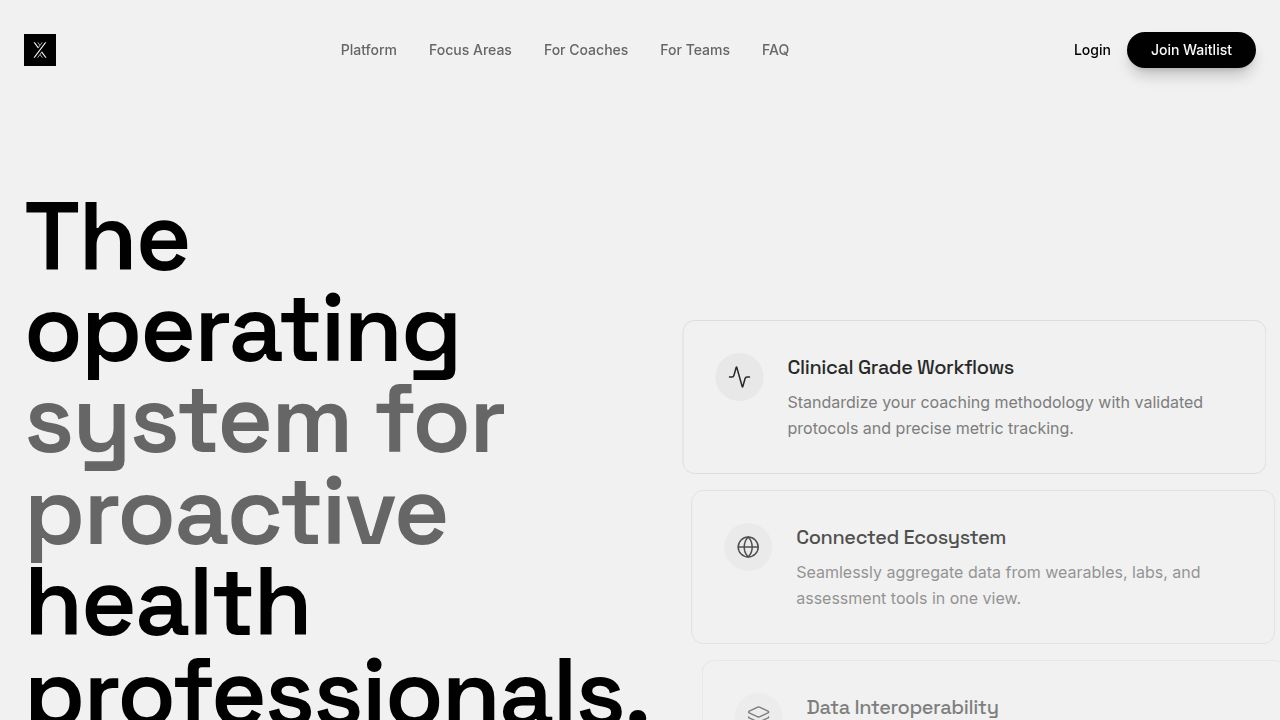
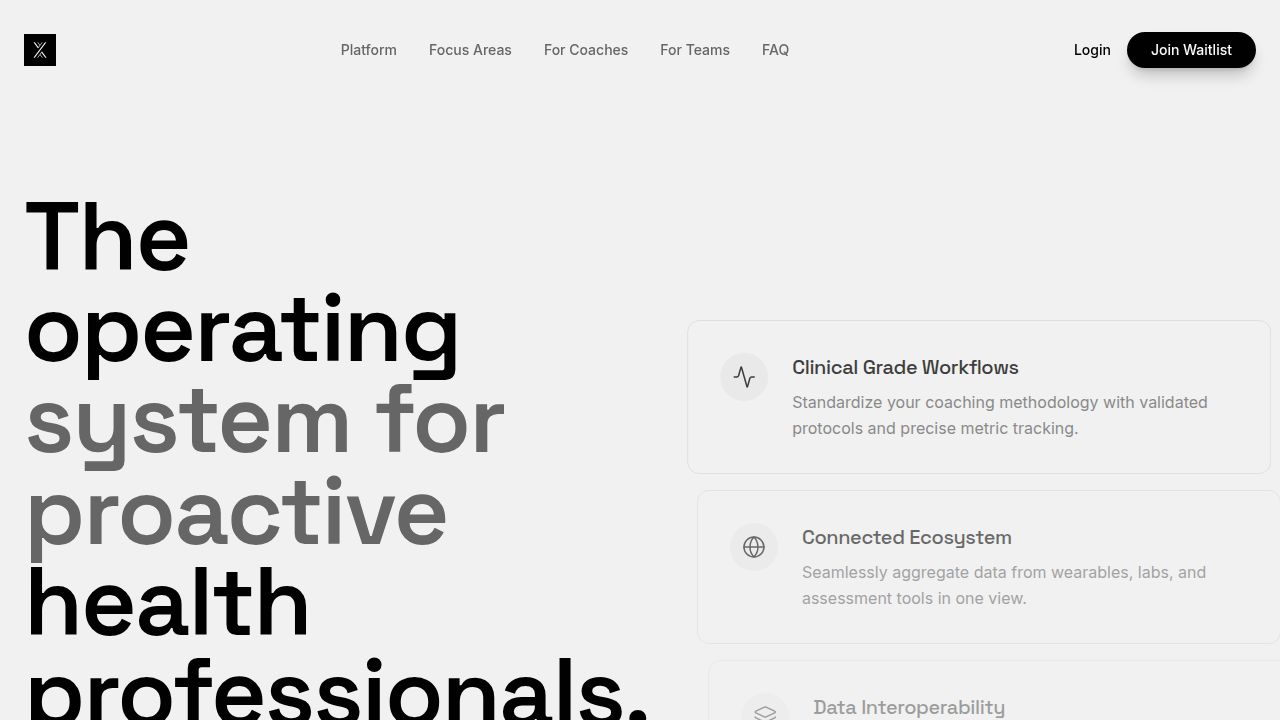
Add a new Careers page to the company website
Introduces a new `Careers.tsx` page component with hero, philosophy, and open roles sections. Updates `App.tsx` to route to `/careers`, `Footer.tsx` to link to the new page, and `content.ts` with careers-specific content.

Replit-Commit-Author: Agent
Replit-Commit-Session-Id: 21ed4a7f-fa60-41e0-8dd4-cb5c47ec6a1c
Replit-Commit-Checkpoint-Type: full_checkpoint
Replit-Commit-Event-Id: cc94141b-a21d-4de6-8590-3291a735c38c
Replit-Commit-Screenshot-Url: https://storage.googleapis.com/screenshot-production-us-central1/97df4e13-ea8d-4634-a346-d44cd41de760/21ed4a7f-fa60-41e0-8dd4-cb5c47ec6a1c/XdJDhq3
Replit-Helium-Checkpoint-Created: true

diff --git a/client/src/pages/Careers.tsx b/client/src/pages/Careers.tsx
@@ -1,0 +1,187 @@
+import Navbar from "@/components/Navbar";
+import Footer from "@/components/Footer";
+import Section from "@/components/Section";
+import { content } from "@/lib/content";
+import { ArrowRight, BarChart3, Zap, Globe, MapPin, Briefcase } from "lucide-react";
+import { motion } from "framer-motion";
+import { useState } from "react";
+import { Input } from "@/components/ui/input";
+import { Button } from "@/components/ui/button";
+import { useToast } from "@/hooks/use-toast";
+
+const philosophyIcons = [BarChart3, Zap, Globe];
+
+export default function Careers() {
+  const { toast } = useToast();
+  const [talentLink, setTalentLink] = useState("");
+  const [submitted, setSubmitted] = useState(false);
+
+  const handleTalentSubmit = (e: React.FormEvent) => {
+    e.preventDefault();
+    if (!talentLink.trim()) return;
+    toast({
+      title: "Thanks for reaching out",
+      description: "We'll review your profile and get in touch.",
+    });
+    setTalentLink("");
+    setSubmitted(true);
+  };
+
+  return (
+    <div className="min-h-screen bg-background text-foreground font-sans selection:bg-primary selection:text-primary-foreground">
+      <Navbar />
+
+      <section className="pt-32 pb-24 lg:pt-48 lg:pb-32 px-6 border-b border-border bg-secondary/5">
+        <div className="container mx-auto max-w-4xl text-center">
+          <motion.h1
+            initial={{ opacity: 0, y: 20 }}
+            animate={{ opacity: 1, y: 0 }}
+            className="text-5xl md:text-7xl font-display font-semibold tracking-tighter mb-6"
+            data-testid="text-careers-headline"
+          >
+            {content.careersPage.hero.title}
+          </motion.h1>
+          <motion.p
+            initial={{ opacity: 0, y: 20 }}
+            animate={{ opacity: 1, y: 0 }}
+            transition={{ delay: 0.1 }}
+            className="text-xl md:text-2xl text-muted-foreground font-light leading-relaxed max-w-2xl mx-auto"
+            data-testid="text-careers-subtitle"
+          >
+            {content.careersPage.hero.subtitle}
+          </motion.p>
+        </div>
+      </section>
+
+      <Section className="bg-background">
+        <div className="max-w-4xl mx-auto">
+          <h2 className="text-3xl md:text-4xl font-display font-medium tracking-tight mb-12 text-center" data-testid="text-philosophy-title">
+            {content.careersPage.philosophy.title}
+          </h2>
+          <div className="grid md:grid-cols-3 gap-6">
+            {content.careersPage.philosophy.cards.map((card, i) => {
+              const Icon = philosophyIcons[i];
+              return (
+                <motion.div
+                  key={i}
+                  initial={{ opacity: 0, y: 20 }}
+                  whileInView={{ opacity: 1, y: 0 }}
+                  viewport={{ once: true }}
+                  transition={{ delay: i * 0.1 }}
+                  className="p-8 rounded-3xl border border-border bg-secondary/5 space-y-4"
+                  data-testid={`card-philosophy-${i}`}
+                >
+                  <div className="w-12 h-12 rounded-2xl bg-secondary flex items-center justify-center">
+                    <Icon className="w-6 h-6 text-foreground" />
+                  </div>
+                  <h3 className="text-xl font-display font-medium">{card.title}</h3>
+                  <p className="text-muted-foreground leading-relaxed">{card.description}</p>
+                </motion.div>
+              );
+            })}
+          </div>
+        </div>
+      </Section>
+
+      <Section className="bg-background">
+        <div className="max-w-4xl mx-auto">
+          <h2 className="text-3xl md:text-4xl font-display font-medium tracking-tight mb-4 text-center" data-testid="text-roles-title">
+            {content.careersPage.roles.title}
+          </h2>
+          <p className="text-center text-muted-foreground mb-12">
+            We're a small, focused team building foundational technology.
+          </p>
+          <div className="space-y-4">
+            {content.careersPage.roles.positions.map((role, i) => (
+              <motion.div
+                key={i}
+                initial={{ opacity: 0, y: 16 }}
+                whileInView={{ opacity: 1, y: 0 }}
+                viewport={{ once: true }}
+                transition={{ delay: i * 0.08 }}
+                className="group p-6 md:p-8 rounded-3xl border border-border bg-background hover:bg-secondary/5 transition-colors cursor-pointer"
+                data-testid={`card-role-${i}`}
+              >
+                <div className="flex flex-col md:flex-row md:items-center justify-between gap-4">
+                  <div className="space-y-2 flex-1">
+                    <h3 className="text-xl font-display font-medium group-hover:text-primary transition-colors">
+                      {role.title}
+                    </h3>
+                    <p className="text-muted-foreground leading-relaxed">
+                      {role.description}
+                    </p>
+                  </div>
+                  <div className="flex items-center gap-4 shrink-0">
+                    <span className="flex items-center gap-1.5 text-sm text-muted-foreground">
+                      <Briefcase className="w-4 h-4" />
+                      {role.type}
+                    </span>
+                    <span className="flex items-center gap-1.5 text-sm text-muted-foreground">
+                      <MapPin className="w-4 h-4" />
+                      {role.location}
+                    </span>
+                    <ArrowRight className="w-5 h-5 text-muted-foreground group-hover:text-foreground group-hover:translate-x-1 transition-all" />
+                  </div>
+                </div>
+              </motion.div>
+            ))}
+          </div>
+        </div>
+      </Section>
+
+      <Section className="bg-foreground text-background">
+        <div className="max-w-2xl mx-auto text-center">
+          <h2 className="text-3xl md:text-4xl font-display font-medium tracking-tight mb-4" data-testid="text-talent-cta">
+            {content.careersPage.talentCta.text}
+          </h2>
+          <p className="text-zinc-400 mb-10">
+            We're always looking for exceptional people who share our mission.
+          </p>
+
+          {submitted ? (
+            <motion.div
+              initial={{ opacity: 0, scale: 0.95 }}
+              animate={{ opacity: 1, scale: 1 }}
+              className="space-y-3"
+            >
+              <div className="w-12 h-12 mx-auto bg-green-500/10 text-green-400 rounded-full flex items-center justify-center">
+                <svg className="w-6 h-6" fill="none" viewBox="0 0 24 24" stroke="currentColor" strokeWidth={2}>
+                  <path strokeLinecap="round" strokeLinejoin="round" d="M5 13l4 4L19 7" />
+                </svg>
+              </div>
+              <p className="text-zinc-300 text-lg">We'll be in touch.</p>
+              <button
+                onClick={() => setSubmitted(false)}
+                className="text-sm text-zinc-500 hover:text-zinc-300 transition-colors"
+                data-testid="button-submit-another"
+              >
+                Submit another
+              </button>
+            </motion.div>
+          ) : (
+            <form onSubmit={handleTalentSubmit} className="flex flex-col sm:flex-row gap-3 max-w-md mx-auto">
+              <Input
+                type="url"
+                placeholder="LinkedIn or portfolio URL"
+                value={talentLink}
+                onChange={(e) => setTalentLink(e.target.value)}
+                required
+                className="flex-1 h-12 rounded-full bg-zinc-900 border-zinc-800 text-zinc-200 placeholder:text-zinc-600 focus-visible:ring-0 focus-visible:border-zinc-600"
+                data-testid="input-talent-link"
+              />
+              <Button
+                type="submit"
+                className="h-12 px-8 rounded-full bg-white text-black hover:bg-zinc-200 font-medium text-sm whitespace-nowrap"
+                data-testid="button-talent-submit"
+              >
+                {content.careersPage.talentCta.button}
+              </Button>
+            </form>
+          )}
+        </div>
+      </Section>
+
+      <Footer />
+    </div>
+  );
+}

diff --git a/client/src/lib/content.ts b/client/src/lib/content.ts
@@ -297,6 +297,57 @@ export const content = {
     }
   },
 
+  careersPage: {
+    hero: {
+      title: "Join the mission to scale human performance.",
+      subtitle: "We are building the AI-agentic operating system that transforms health coaching into a scalable digital asset. Help us define the future of proactive health."
+    },
+    philosophy: {
+      title: "Our Philosophy",
+      cards: [
+        {
+          title: "Data-Driven",
+          description: "We believe in clinical-grade workflows and precise metric tracking."
+        },
+        {
+          title: "Impact-First",
+          description: "We move with startup agility to solve the administrative bottleneck for world-class coaches."
+        },
+        {
+          title: "Remote-Native",
+          description: "A global team built on trust, transparency, and high-performance output."
+        }
+      ]
+    },
+    roles: {
+      title: "Open Roles",
+      positions: [
+        {
+          title: "Founding Engineer (Full-Stack & AI)",
+          description: "Help us architect the core AI engine and seamless data interoperability.",
+          type: "Engineering",
+          location: "Remote"
+        },
+        {
+          title: "Director of Performance & Sport Science",
+          description: "Bridge the gap between elite coaching methodology and autonomous software.",
+          type: "Product & Science",
+          location: "Remote"
+        },
+        {
+          title: "Fractional AI Advisor",
+          description: "Guide our strategic technical roadmap and LLM integration.",
+          type: "Advisory",
+          location: "Remote"
+        }
+      ]
+    },
+    talentCta: {
+      text: "Don't see a fit but want to build with us?",
+      button: "Drop your LinkedIn / Portfolio"
+    }
+  },
+
   coachesPage: {
     hero: {
       title: "Founding Coach Partners",

diff --git a/client/src/components/Footer.tsx b/client/src/components/Footer.tsx
@@ -29,9 +29,24 @@ export default function Footer() {
           <div>
             <h4 className="font-mono text-xs uppercase tracking-widest text-zinc-500 mb-6">{content.footer.columns.company.title}</h4>
             <ul className="space-y-4">
-              {content.footer.columns.company.links.map((link, i) => (
-                <li key={i}><a href="#" className="hover:text-white text-zinc-400 transition-colors">{link}</a></li>
-              ))}
+              {content.footer.columns.company.links.map((link, i) => {
+                const linkRoutes: Record<string, string> = { "Careers": "/careers", "Contact": "mailto:" + content.contact.email };
+                const href = linkRoutes[link] || "#";
+                const isExternal = href.startsWith("mailto:");
+                return (
+                  <li key={i}>
+                    {isExternal ? (
+                      <a href={href} className="hover:text-white text-zinc-400 transition-colors">{link}</a>
+                    ) : href !== "#" ? (
+                      <Link href={href}>
+                        <a className="hover:text-white text-zinc-400 transition-colors">{link}</a>
+                      </Link>
+                    ) : (
+                      <a href="#" className="hover:text-white text-zinc-400 transition-colors">{link}</a>
+                    )}
+                  </li>
+                );
+              })}
             </ul>
           </div>
         </div>

diff --git a/client/src/App.tsx b/client/src/App.tsx
@@ -5,6 +5,7 @@ import { Toaster } from "@/components/ui/toaster";
 import { TooltipProvider } from "@/components/ui/tooltip";
 import Home from "@/pages/Home";
 import Coaches from "@/pages/Coaches";
+import Careers from "@/pages/Careers";
 import NotFound from "@/pages/not-found";
 
 function Router() {
@@ -12,6 +13,7 @@ function Router() {
     <Switch>
       <Route path="/" component={Home} />
       <Route path="/coaches" component={Coaches} />
+      <Route path="/careers" component={Careers} />
       <Route component={NotFound} />
     </Switch>
   );

diff --git a/replit.md b/replit.md
@@ -35,6 +35,11 @@ shared/
 - `GET /api/waitlist` — List all submissions (admin)
 - `GET /api/health` — Health check
 
+## Pages
+- `/` — Home (marketing landing page with waitlist form)
+- `/coaches` — Founding Coach Partners application
+- `/careers` — Careers page with philosophy, open roles, and talent CTA
+
 ## Key Features
 - Two submission types: "general" waitlist and "coach_partner" application
 - Duplicate email prevention (unique constraint + application-level check)